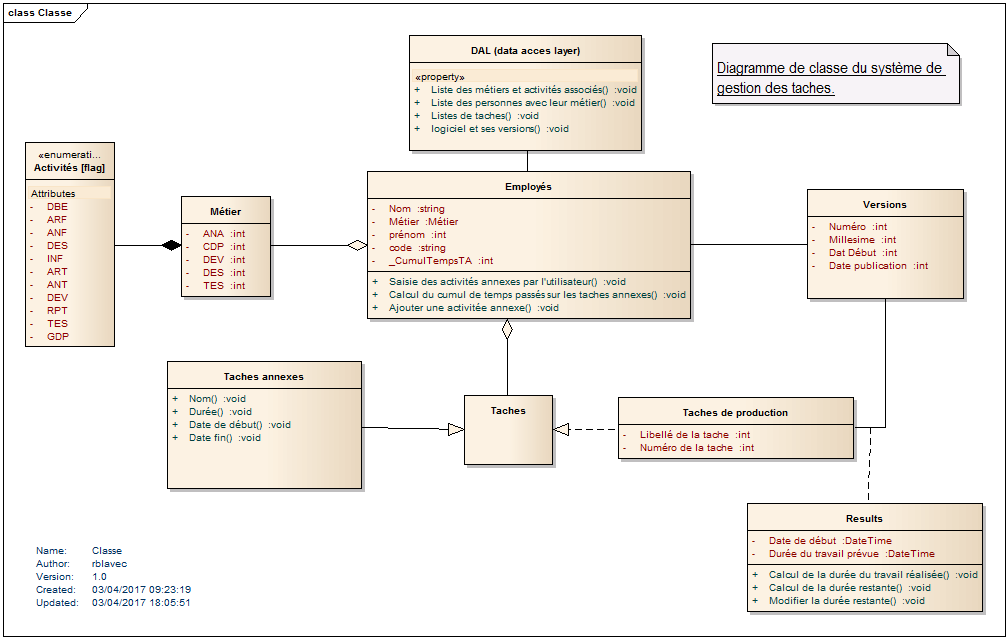
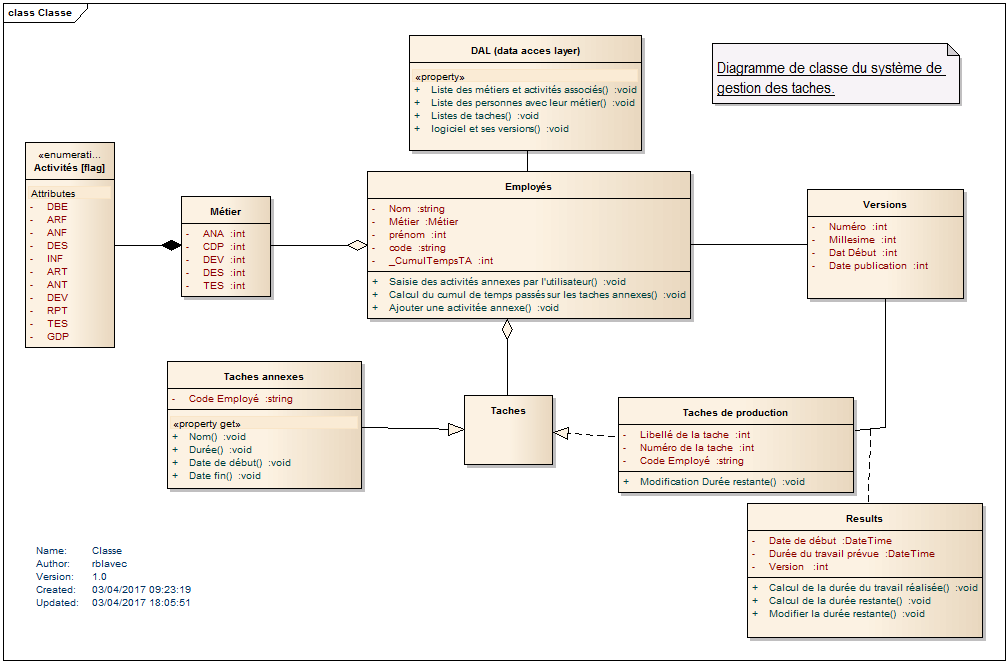
Ajout du projet job

diff --git a/Job Overview/Job Overview/TacheAnnexe.cs b/Job Overview/Job Overview/TacheAnnexe.cs
@@ -6,31 +6,92 @@ using System.Threading.Tasks;
 
 namespace Job_Overview
 {
-      public  class TacheAnnexe : Tache
+    public class TacheAnnexe : Tache
     {
         /// <summary>
         /// Cette classe gère les différentes tâches annexes qui seront rajoutées au fur et 
         /// à mesure par les employés
         /// </summary>
         #region Champs privés
-                      
+        private static List<TacheAnnexe> _tacheAnnexe = new List<TacheAnnexe>();
+        //KDprivate int _duréeTâche; 
         #endregion
 
         #region Propriétés
-       
-
+        public string CodeEmployé { get; set; }
+        public static List<TacheAnnexe> TacheA { get { return _tacheAnnexe; } }
+        // public int DuréeTâche { get { return _duréeTâche; } }
         #endregion
         #region Constructeurs
-        public TacheAnnexe(string nom, int durée) : base (nom, durée)
+        public TacheAnnexe(string nom, int code) : base(nom, code)
         {
-            
-        }
 
+        }
+        public TacheAnnexe(string nom, int code, int durée) : base(nom, code, durée)
+        {
+
+        }
+        public TacheAnnexe(string libellé, int code, int durée, DateTime dateDebut) : base(libellé, code, durée)
+        {
+
+        }
         #endregion
         #region Méthodes privées
 
         #endregion
         #region Méthodes publiques
+        public string CumulTacheAEmployé(string code)
+        {
+
+            int cumul = 0;
+            foreach (var a in TacheA)
+            {
+                if (code.CompareTo(a.CodeEmployé) == 0)
+                {
+                    cumul += a._duréeTâche;
+                }
+            }
+            return string.Format("Le cumul de temps passé sur les activités annexes réalisés par l'employé {0} est de {1} j", code, cumul);
+
+        }
+
+        public string CumulTaches(string taches)
+        {
+
+            int cumul = 0;
+            foreach (var a in TacheA)
+            {
+                if (taches.CompareTo(a._libelléTâche) == 0)
+                {
+                    cumul += a._duréeTâche;
+                }
+            }
+            return string.Format("Le cumul de temps passé sur l'activité annexe {0} est de {1} j", taches, cumul);
+
+        }
+        public string CumulTachesMois(string taches)
+        {
+
+            string s = string.Empty;
+
+            List<TacheAnnexe> tacheMois = new List<TacheAnnexe>();
+            var Mois = TacheA.Select(c => c._dateDébut.Month).Distinct();
+            int cumul = 0;
+            foreach (var a in Mois)
+            {
+                var tache = TacheA.Where(c => c._dateDébut.Month == a);
+                foreach (var b in tache)
+                {
+                    if (taches.CompareTo(b._libelléTâche) == 0)
+                    {
+                        cumul += b._duréeTâche;
+                    }
+                }
+                s += string.Format("\nLe cumul de temps passé sur l'activité annexe {0} est de {1} j durant le mois de {2}", taches, cumul, a);
+            }
+            return s;
+
+        }
         #endregion
 
     }

diff --git a/Job Overview/Job Overview/Program.cs b/Job Overview/Job Overview/Program.cs
@@ -39,7 +39,7 @@ namespace Job_Overview
                 Numéro = "1.00",
                 Millésime = 2017,
                 DateDébut = new DateTime(02, 01, 16),
-                DatePubli = new DateTime(08, 01, 17)
+                DatePubli = new DateTime(08, 01, 17),
             };
             versions1.Add(v1);
             Version v2 = new Version
@@ -52,6 +52,76 @@ namespace Job_Overview
             versions1.Add(v2);
 
 
+            //Création de taches de production
+            List<TacheProduction> listeprod = new List<TacheProduction>();
+            TacheProduction t1 = new TacheProduction(54, "Tache 1")
+            {
+                DureePrevue = 60,
+                DureeRealise = 21,
+                DureeRestante = 39,           
+                CodeEmployé = "GL"
+            };
+            listeprod.Add(t1);
+
+            TacheProduction t2 = new TacheProduction(74, "Tache 2")
+            {
+                DureePrevue = 70,
+                DureeRealise = 31,
+                DureeRestante = 39,
+                CodeEmployé = "GL"
+            };
+            listeprod.Add(t2);
+
+            TacheProduction t3 = new TacheProduction(42, "Tache 3")
+            {
+                DureePrevue = 80,
+                DureeRealise = 21,
+                DureeRestante = 59,
+                CodeEmployé = "GL"
+            };
+            listeprod.Add(t3);
+
+            Console.WriteLine(t3.ModificationDureeRestante(10));
+
+            Console.ReadKey();
+            Console.Clear();
+
+
+            //création de taches annexes
+            TacheAnnexe tA1 = new TacheAnnexe("Tache 1", 31, 45, new DateTime(2017,2,12))
+            {
+                CodeEmployé = "GL",
+                
+                
+            };
+            TacheAnnexe.TacheA.Add(tA1);
+
+            TacheAnnexe tA2 = new TacheAnnexe("Tache 2", 74, 87, DateTime.Today)
+            {
+                CodeEmployé = "GL"
+                
+            };
+            TacheAnnexe.TacheA.Add(tA2);
+
+            TacheAnnexe tA3 = new TacheAnnexe("Tache 3", 82, 55, new DateTime(2017, 5, 5,0,0,0,0))
+            {
+                CodeEmployé = "HK"
+            };
+            TacheAnnexe.TacheA.Add(tA3);
+
+            TacheAnnexe tA4 = new TacheAnnexe("Tache 3", 87, 12, new DateTime(2017, 5, 10))
+            {
+                CodeEmployé = "NP"
+            };
+            TacheAnnexe.TacheA.Add(tA4);
+
+            //on affiche le cumul de la durée consacrée a réaliser une tache annexe
+            Console.WriteLine(tA1.CumulTacheAEmployé("GL"));
+            Console.WriteLine(tA1.CumulTaches("Tache 3"));
+            Console.WriteLine(tA1.CumulTachesMois("Tache 3"));
+
+            Console.ReadKey();
+            Console.Clear();
 
 
             //Suivi de la classe DAL

diff --git a/Job Overview/Job Overview/Employé.cs b/Job Overview/Job Overview/Employé.cs
@@ -20,13 +20,13 @@ namespace Job_Overview
 
 
         #region Propriétés
-        public string Nom { get;  }
-        public string Prenom { get;  }
+        public string Nom { get; }
+        public string Prenom { get; }
         /// <summary>
         /// Le statut correspond aux activités de l'employé
         /// </summary>
         public Activités Statut { get; set; }
-        public string Métier{ get; }
+        public string Métier { get; }
         public string Code
         {
             get
@@ -43,10 +43,11 @@ namespace Job_Overview
                 _code = a;
             }
         }
+
         #endregion
 
         #region constructeurs
-        public Employé (string nom, string prenom, Activités statut)
+        public Employé(string nom, string prenom, Activités statut)
         {
             Nom = nom;
             Prenom = prenom;
@@ -73,13 +74,13 @@ namespace Job_Overview
 
         #endregion
 
-        #region Méthodes
+        #region Méthodes publiques
         /// <summary>
         /// Méthode qui calcul de cumul de temps passés sur les taches annexes
         /// </summary>
         public void CalculCumulTA()
         {
-
+            List<TacheAnnexe> e1 = new List<TacheAnnexe>();
 
         }
 

diff --git a/Job Overview/Job Overview/TacheProduction.cs b/Job Overview/Job Overview/TacheProduction.cs
@@ -9,17 +9,32 @@ namespace Job_Overview
     /// <summary>
     /// Cette classe gère les tâches liées aux activités de production
     /// </summary>
-    public class TacheProduction: Tache
+    public class TacheProduction : Tache
     {
         #region Propriétés
         public int NumTâche { get; }
-        public int NomTâche { get; }
+        public string NomTâche { get; }
+        public DateTime DateDebut { get; set; }
+        public int DureePrevue { get; set; }
+        public int DureeRealise { get; set; }
+        public int DureeRestante { get; set; }
+        public string CodeEmployé { get; set; }
+
         #endregion
 
         #region constructeur
-        public TacheProduction(string a, int b) : base (a,b)
+        public TacheProduction(int b, string a) : base(a, b)
         {
 
+
+        }
+        #endregion
+
+        #region Méthodes publiques
+        public string ModificationDureeRestante(int valeur)
+        {
+            DureeRestante = valeur;
+          return String.Format("La nouvelle durée restante est de  : {0}", DureeRestante);
         }
         #endregion
     }

diff --git a/Job Overview/Job Overview/Tache.cs b/Job Overview/Job Overview/Tache.cs
@@ -10,11 +10,11 @@ namespace Job_Overview
     {
 
         #region Champs privés
-        private int _codeTâche;
-        private string _libelléTâche;
-        private int _duréeTâche;
-        private DateTime _dateDébut;
-        private DateTime _dateFin;
+        protected int _codeTâche;
+        protected string _libelléTâche;
+        protected int _duréeTâche;
+        protected DateTime _dateDébut;
+        protected DateTime _dateFin;
         #endregion
         #region Propriétés
         public int CodeTâche { get { return _codeTâche; } }
@@ -32,6 +32,15 @@ namespace Job_Overview
         {
             _codeTâche = code;
             _libelléTâche = libellé;
+        }
+        public Tache(string libellé, int code, int durée) : this(libellé, code)
+        {
+            _duréeTâche = durée;
+        }
+        public Tache(string libellé, int code, int durée, DateTime dateDebut) : this(libellé, code, durée)
+        {
+            _dateDébut = dateDebut; 
+
         }
         #endregion
         #region Méthode public
